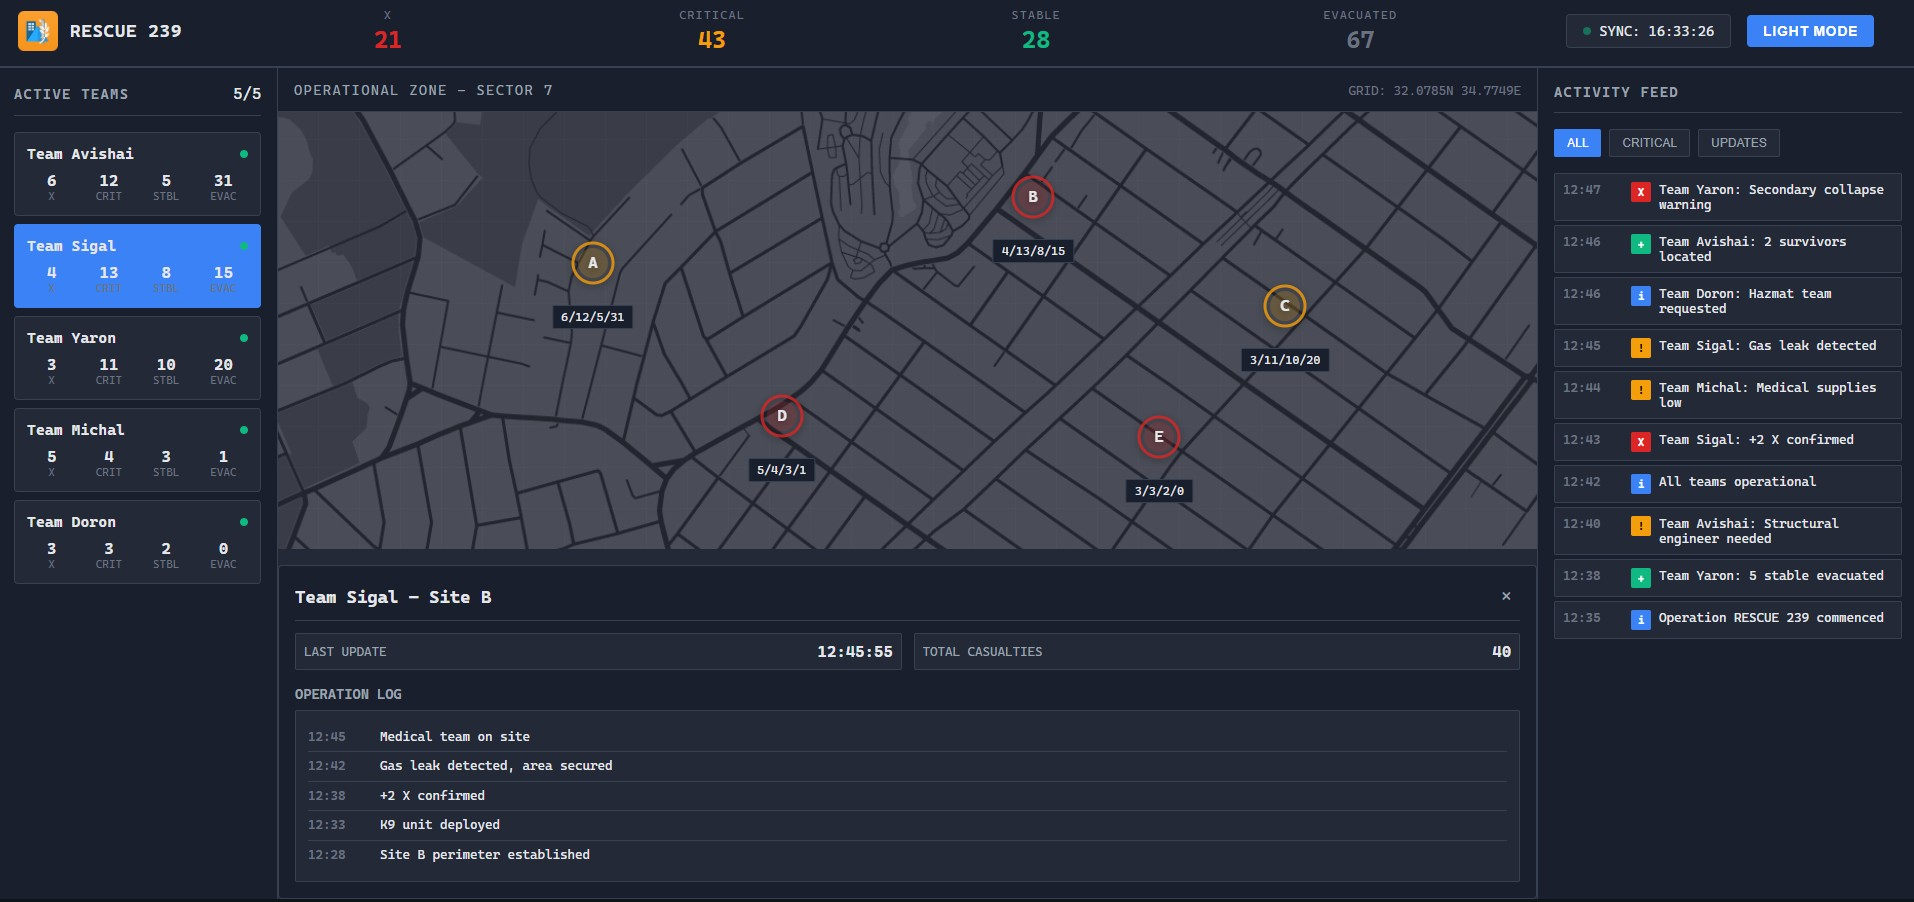
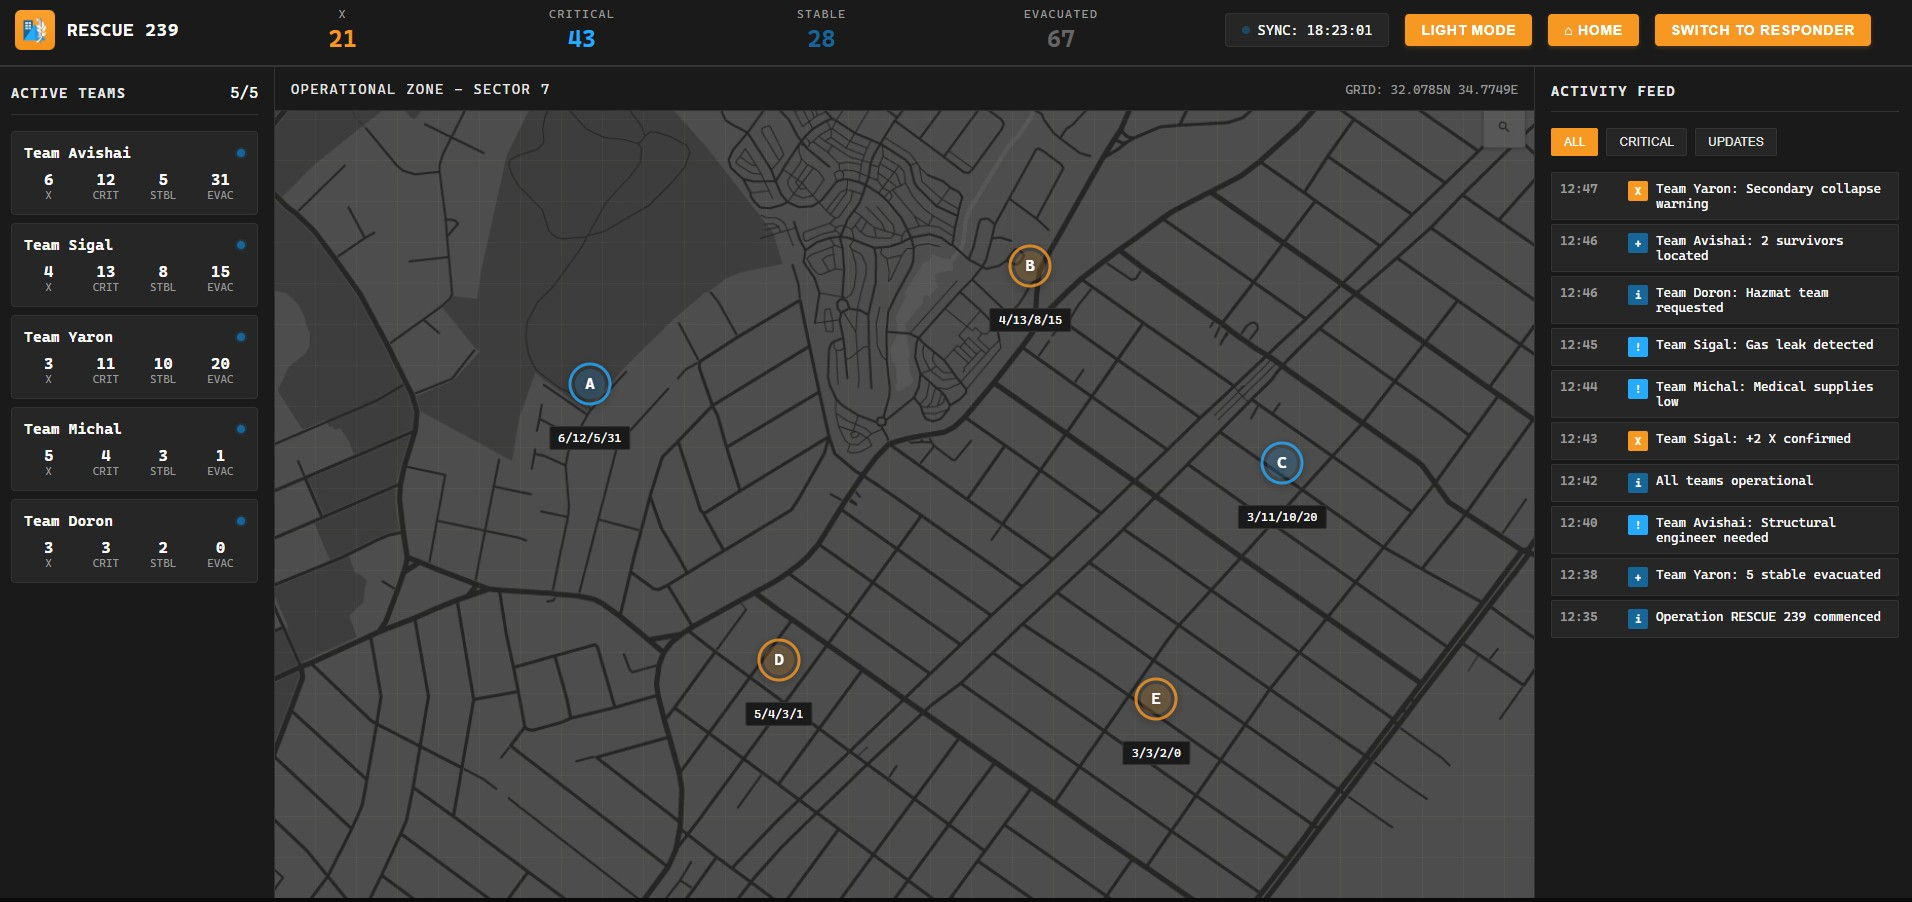
visual style

diff --git a/early_versions/commander-v1.css b/early_versions/commander-v1.css
@@ -2,55 +2,48 @@
 
 /* ---------- Color Palette ------------- */
 :root {
-  /* Home Front Command Colors */
-  --hfc-black: #000000;
-  --hfc-platinum: #E8E8E8;
-  --hfc-blue: #26AAFE;
-  --hfc-orange: #F79823;
-  --hfc-navy: #176699;
-  
   /* Operational Status Colors */
-  --critical: #F79823;  /* Orange for critical/X */
-  --warning: #26AAFE;   /* Blue for warning */
-  --stable: #176699;    /* Navy for stable */
-  --inactive: #666666;  /* Gray for inactive */
+  --critical: #dc2626;
+  --warning: #f59e0b;
+  --stable: #10b981;
+  --inactive: #6b7280;
   
   /* Light Mode (Default - Desert Operations) */
-  --bg-primary: #FAFAFA;
-  --bg-secondary: #FFFFFF;
-  --bg-tertiary: #F6F6F6;
-  --border: #E8E8E8;
-  --border-active: #999999;
+  --bg-primary: #f8f9fa;
+  --bg-secondary: #ffffff;
+  --bg-tertiary: #f3f4f6;
+  --border: #d1d5db;
+  --border-active: #9ca3af;
   
-  --text-primary: #000000;
-  --text-secondary: #333333;
-  --text-dim: #666666;
+  --text-primary: #111827;
+  --text-secondary: #4b5563;
+  --text-dim: #9ca3af;
   
-  --accent: #F79823;        /* Orange for primary actions */
-  --accent-hover: #E68A1F;  /* Darker orange on hover */
+  --accent: #2563eb;
+  --accent-hover: #1d4ed8;
   
   /* Map specific */
-  --map-bg: #F3F4F6;
+  --map-bg: #e5e7eb;
   --map-grid: rgba(0, 0, 0, 0.05);
 }
 
 /* Dark Mode */
 body.dark {
-  --bg-primary: #0A0A0A;
-  --bg-secondary: #1A1A1A;
-  --bg-tertiary: #262626;
-  --border: #333333;
-  --border-active: #4D4D4D;
+  --bg-primary: #0f1419;
+  --bg-secondary: #1a1f2e;
+  --bg-tertiary: #232937;
+  --border: #374151;
+  --border-active: #4b5563;
   
-  --text-primary: #FFFFFF;
-  --text-secondary: #E8E8E8;
-  --text-dim: #999999;
+  --text-primary: #e5e7eb;
+  --text-secondary: #9ca3af;
+  --text-dim: #6b7280;
   
-  --accent: #F79823;        /* Orange stays vibrant in dark mode */
-  --accent-hover: #FFB04D;  /* Lighter orange on hover in dark */
+  --accent: #3b82f6;
+  --accent-hover: #2563eb;
   
-  --map-bg: #0F0F0F;
-  --map-grid: rgba(247, 152, 35, 0.05);
+  --map-bg: #0a0f1c;
+  --map-grid: rgba(59, 130, 246, 0.03);
 }
 
 /* ---------- Base Styles ------------- */
@@ -147,18 +140,13 @@ body {
   border: 1px solid var(--border);
   border-radius: 4px;
   font-size: 0.875rem;
-  transition: all 0.3s ease;
-}
-
-.sync-status:hover {
-  border-color: var(--hfc-navy);
 }
 
 .sync-indicator {
   width: 8px;
   height: 8px;
   border-radius: 50%;
-  background: var(--hfc-navy);
+  background: var(--stable);
   animation: pulse 2s infinite;
 }
 
@@ -179,13 +167,11 @@ body {
   transition: all 0.2s ease;
   text-transform: uppercase;
   letter-spacing: 0.05em;
-  box-shadow: 0 2px 4px rgba(247, 152, 35, 0.2);
 }
 
 .mode-toggle:hover {
   background: var(--accent-hover);
   transform: translateY(-1px);
-  box-shadow: 0 4px 8px rgba(247, 152, 35, 0.3);
 }
 
 /* ---------- Main Operations Grid ---------- */
@@ -245,14 +231,14 @@ body {
 }
 
 .team-card:hover {
-  border-color: var(--accent);
+  border-color: var(--border-active);
   transform: translateX(2px);
-  box-shadow: 0 2px 8px rgba(247, 152, 35, 0.1);
 }
 
 .team-card.active {
   border-color: var(--accent);
-  background: rgba(247, 152, 35, 0.1);
+  background: var(--accent);
+  background-opacity: 0.1;
 }
 
 .team-header {
@@ -271,8 +257,7 @@ body {
   width: 8px;
   height: 8px;
   border-radius: 50%;
-  background: var(--hfc-navy);
-  box-shadow: 0 0 0 2px rgba(23, 102, 153, 0.2);
+  background: var(--stable);
 }
 
 .team-metrics {
@@ -424,7 +409,7 @@ body:not(.dark) .site-marker svg {
 }
 
 .detail-close:hover {
-  color: var(--accent);
+  color: var(--text-primary);
 }
 
 .detail-stats {
@@ -442,10 +427,6 @@ body:not(.dark) .site-marker svg {
   background: var(--bg-tertiary);
   border: 1px solid var(--border);
   border-radius: 2px;
-}
-
-.stat-item:hover {
-  border-color: var(--accent);
 }
 
 .stat-label {
@@ -530,12 +511,6 @@ body:not(.dark) .site-marker svg {
   border-color: var(--accent);
 }
 
-.filter-btn:hover:not(.active) {
-  background: var(--bg-tertiary);
-  border-color: var(--accent);
-  color: var(--accent);
-}
-
 .activity-feed {
   display: flex;
   flex-direction: column;
@@ -576,9 +551,9 @@ body:not(.dark) .site-marker svg {
 }
 
 .activity-icon.critical { background: var(--critical); color: white; }
-.activity-icon.warning { background: var(--warning); color: white; }
+.activity-icon.warning { background: var(--warning); color: black; }
 .activity-icon.stable { background: var(--stable); color: white; }
-.activity-icon.info { background: var(--hfc-navy); color: white; }
+.activity-icon.info { background: var(--accent); color: white; }
 
 .activity-text {
   color: var(--text-primary);

diff --git a/index.html b/index.html
@@ -44,9 +44,6 @@
       Mission‑ready casualty reporting in&nbsp;<span class="whitespace-nowrap">&lt; 3 seconds</span>
     </h1>
     <p class="mt-3 text-lg text-[var(--platinum)]">
-      a custom web app for first responders and their direct commander in the field.
-    </p>
-    <p class="mt-6 text-lg sm:text-xl md:text-2xl">
       Built for IDF&nbsp;Home Front Command, Reserve&nbsp;Unit 239
     </p>
     <a href="#solution"
@@ -61,7 +58,7 @@
   <div class="max-w-6xl mx-auto px-4 grid gap-8 sm:grid-cols-3 text-center">
     <div>
       <p class="text-4xl font-extrabold text-[var(--orange)]">8–12&nbsp;min</p>
-      <p class="mt-2">lost per update with legacy methods</p>
+      <p class="mt-2">lost on communication with legacy methods</p>
     </div>
     <div>
       <p class="text-4xl font-extrabold text-[var(--orange)]">₪250k</p>
@@ -80,7 +77,7 @@
     <h2 class="text-3xl sm:text-4xl font-bold text-center mb-12 text-[var(--platinum)]">What Rescue 239 Delivers</h2>
     <div class="grid gap-6 sm:grid-cols-2 lg:grid-cols-4">
       <div class="p-6 bg-white/5 rounded-xl border border-white/10">
-        <h3 class="font-semibold text-lg mb-2 text-[var(--platinum)]">Tap → Send ≤ 3 s</h3>
+        <h3 class="font-semibold text-lg mb-2 text-[var(--platinum)]">Tap → Send ≤ 3 sec</h3>
         <p class="text-sm leading-relaxed text-[var(--platinum)]">Zero‑training UI: four buttons, one confirmation vibration.</p>
       </div>
       <div class="p-6 bg-white/5 rounded-xl border border-white/10">

diff --git a/responder.html b/responder.html
@@ -15,9 +15,10 @@
       <img src="assets/homefront_logo.png" alt="IDF" class="unit-logo">
       <div class="unit-info">
         <div class="unit-name">Rescue 239</div>
-        <div class="site-code" id="site-code">Site A-12</div>
+        <div class="site-code" id="site-code">Site A-12 | Team Leader - Lotan</div>
       </div>
     </div>
+  
     
     <!-- GPS Status -->
     <div class="gps-banner good" id="gps-banner">
